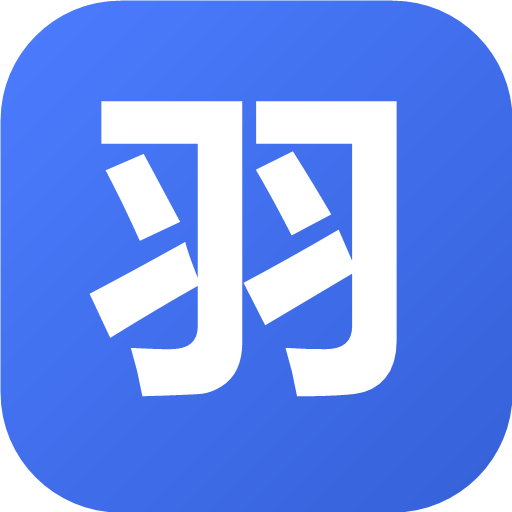
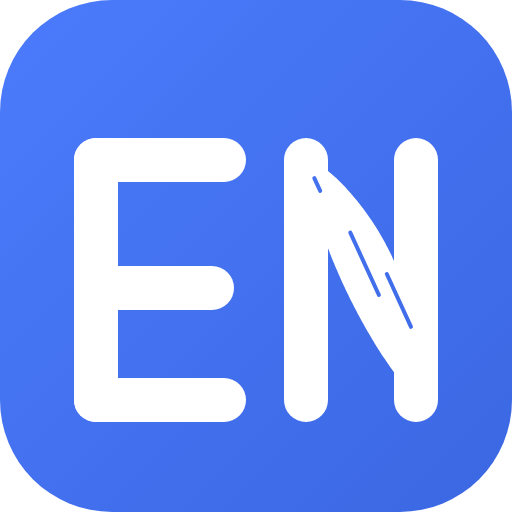
feat: 工具栏图标换成 EN 羽形标
N 的斜杠做成羽片并带向下探出的笔尖，E 与 N 之间留空隙；新增 512 矢量母版
assets/icon-master.svg，16/32/48/128 与 icon-master.png 全部由母版重出，
文档里的「羽」图标描述同步改为「EN」。

diff --git a/README.md b/README.md
@@ -11,7 +11,7 @@
 
 ### 翻译
 
-点工具栏「羽」图标，图标下方弹出翻译窗口（打开就聚焦输入框），输入或粘贴文本，按 `Enter` 直接翻译（`Shift+Enter` 换行）。
+点工具栏「EN」图标，图标下方弹出翻译窗口（打开就聚焦输入框），输入或粘贴文本，按 `Enter` 直接翻译（`Shift+Enter` 换行）。
 
 - AI 服务流式输出，边生成边显示
 - 目标语言默认「智能」：其他语言译成中文，中文译成英文；也可以固定某个语言，源语言可自动检测，固定语言时方向可一键互换
@@ -126,7 +126,7 @@ pnpm install
 pnpm build
 ```
 
-Edge → `edge://extensions` → 打开「开发人员模式」→「加载解压缩的扩展」→ 选择 `dist` 目录 → 点工具栏「羽」图标，弹出翻译窗口。
+Edge → `edge://extensions` → 打开「开发人员模式」→「加载解压缩的扩展」→ 选择 `dist` 目录 → 点工具栏「EN」图标，弹出翻译窗口。
 
 想打成可以直接分发的 zip：
 

diff --git a/docs/guide/01-加载与调试.md b/docs/guide/01-加载与调试.md
@@ -13,7 +13,7 @@ pnpm build
 1. 左下角打开「开发人员模式」。
 2. 点「加载解压缩的扩展」。
 3. 选择 `D:\Project\Plumet\dist`（注意是 dist，不是项目根目录）。
-4. 列表里出现「羽译」，工具栏出现蓝色「羽」图标。
+4. 列表里出现「羽译」，工具栏出现蓝色「EN」图标。
 5. 点图标 → 图标下方弹出羽译翻译窗口；检查、润色、历史都在这个窗口里。
 
 如果点了没反应，先看「羽译」卡片上有没有红色的错误按钮。
